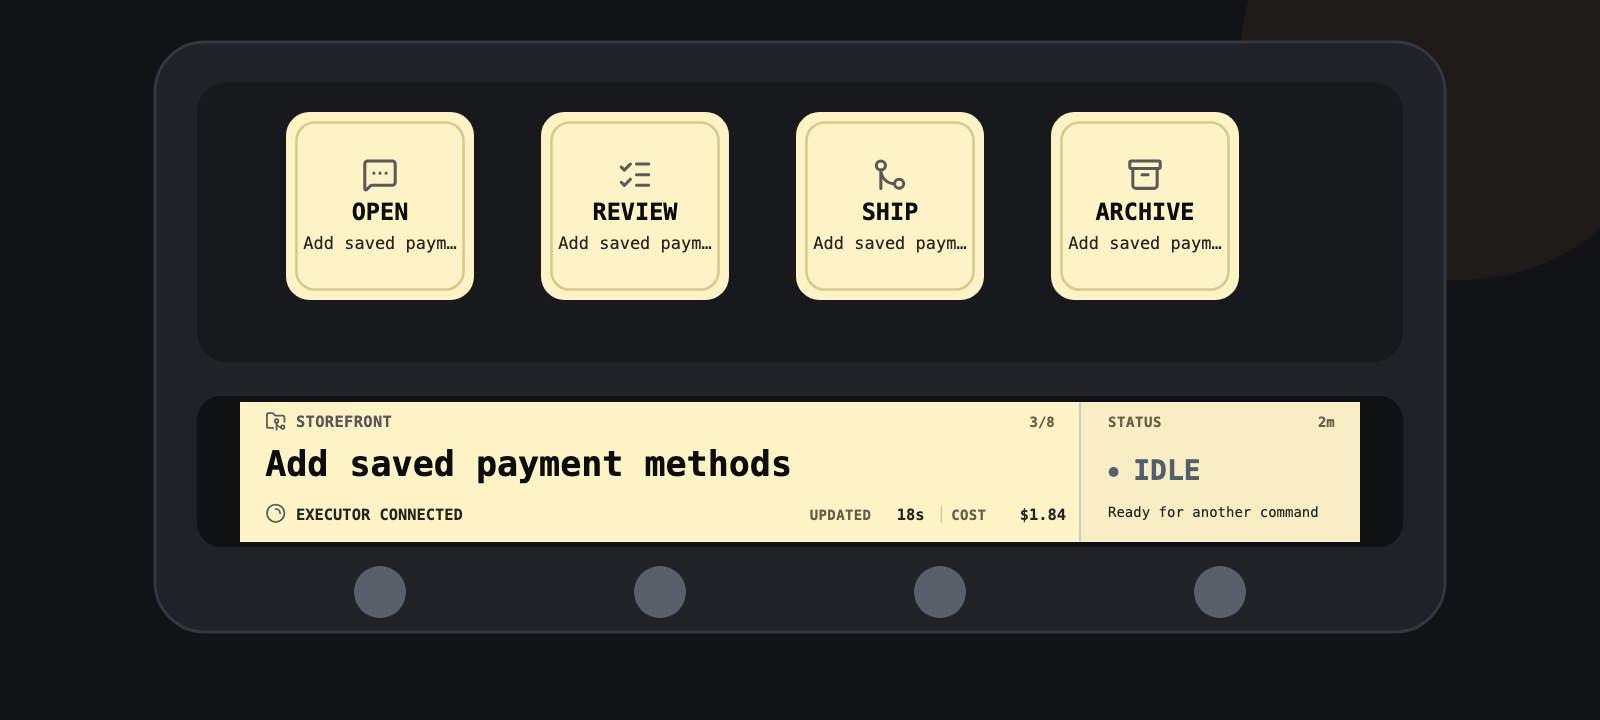
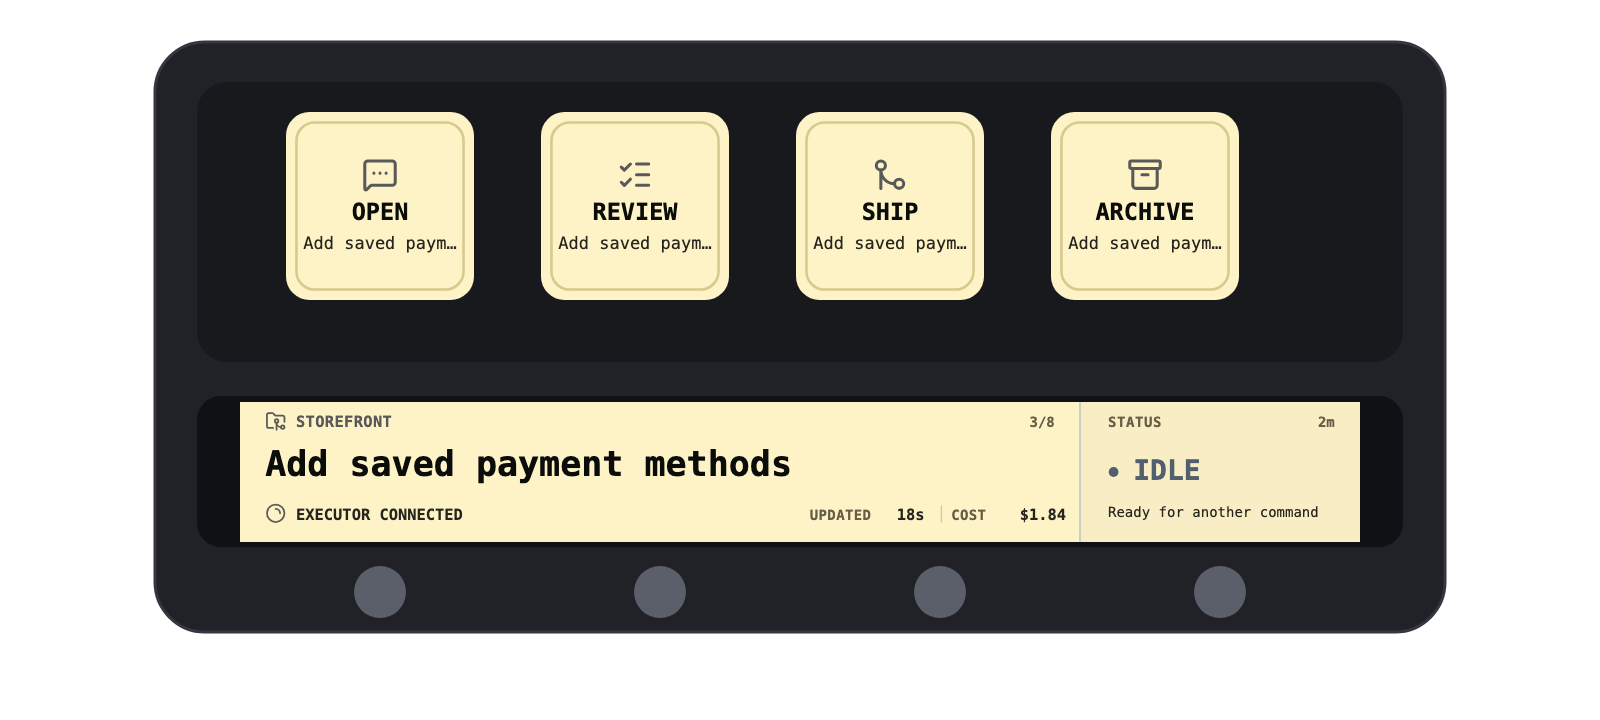
docs: refresh visuals and device support

diff --git a/scripts/generate-readme-screenshots.ts b/scripts/generate-readme-screenshots.ts
@@ -269,8 +269,6 @@ function renderCommandFeedbackSvg(kind: CommandFeedbackKind): string {
 
 function canvas(width: number, height: number, content: string): string {
 	return `<svg xmlns="http://www.w3.org/2000/svg" width="${width}" height="${height}" viewBox="0 0 ${width} ${height}">
-		<rect width="${width}" height="${height}" fill="#121317"/>
-		<circle cx="1460" cy="60" r="220" fill="#F0A832" opacity=".055"/>
 		${content}
 	</svg>`;
 }
@@ -302,6 +300,7 @@ function writeScreenshot(name: string, width: number, height: number, svg: strin
 			"--disable-gpu",
 			"--hide-scrollbars",
 			"--force-device-scale-factor=1",
+			"--default-background-color=00000000",
 			`--window-size=${width},${height}`,
 			`--screenshot=${pngPath}`,
 			pathToFileURL(svgPath).href,

diff --git a/README.md b/README.md
@@ -1,10 +1,13 @@
-# Amp Deck
+# Amp Deck: Elgato Stream Deck+ Plugin
 
 Amp Deck puts active [Amp](https://ampcode.com/) threads on a Stream Deck+. The touch strip shows what Amp is doing; the keys open threads and send common follow-up commands without a trip back to the terminal.
 
 > Amp Deck is an unofficial Stream Deck plugin for Amp. It is not affiliated with or endorsed by Amp / Amp Code.
 
-![Recommended Amp Deck layout on Stream Deck+](./docs/images/recommended-layout.png)
+<p align="center">
+  <img src="./docs/images/recommended-layout.png" alt="Recommended Amp Deck layout on Stream Deck+" width="68%">
+  <img src="./docs/images/orbin-time.png" alt="Puck saying It's orbin' time" width="28%">
+</p>
 
 ## What it does
 
@@ -18,18 +21,22 @@ Thread data comes from Amp's experimental live inventory, `amp top --stream-json
 
 ## Requirements
 
-- a **Stream Deck+** for the complete four-encoder status display;
+- a **Stream Deck+**;
 - **Stream Deck 7.1 or newer**;
 - **macOS 13.5 or newer**, or **Windows 10 or newer**;
 - the current [Amp CLI](https://ampcode.com/manual), signed in to your Amp account.
 
-Show Puck also works on Stream Deck models without encoders. Thread Status and the shared selection used by Open, Review, Ship, and Archive need a Stream Deck+.
+## Supported devices
+
+Only **Stream Deck+** is currently supported. It is the only device available for development and hardware testing, so other Stream Deck hardware should be considered untested.
+
+A future goal is to support the [CORSAIR GALLEON 100 SD](https://www.elgato.com/ca/en/p/galleon-100-sd-stream-deck-integrated-mechanical-keyboard-ch-912a31i-na). Its integrated Stream Deck controls could support a more tailored Amp Deck experience than reusing the current four-encoder layout.
 
 ## Install
 
-1. Open the [latest Amp Deck release](https://github.com/dinsley/ampdeck/releases/latest).
+1. Open the [most recent Amp Deck release](https://github.com/dinsley/ampdeck/releases/latest).
 2. Download `com.dinsley.ampdeck.streamDeckPlugin`.
-3. Open the downloaded file and approve the installation in Stream Deck.
+3. Double-click the downloaded file and approve the installation in Stream Deck.
 4. Confirm that **Amp Deck** appears in the Stream Deck action list.
 
 To build from source instead, see [For contributors](#for-contributors).
